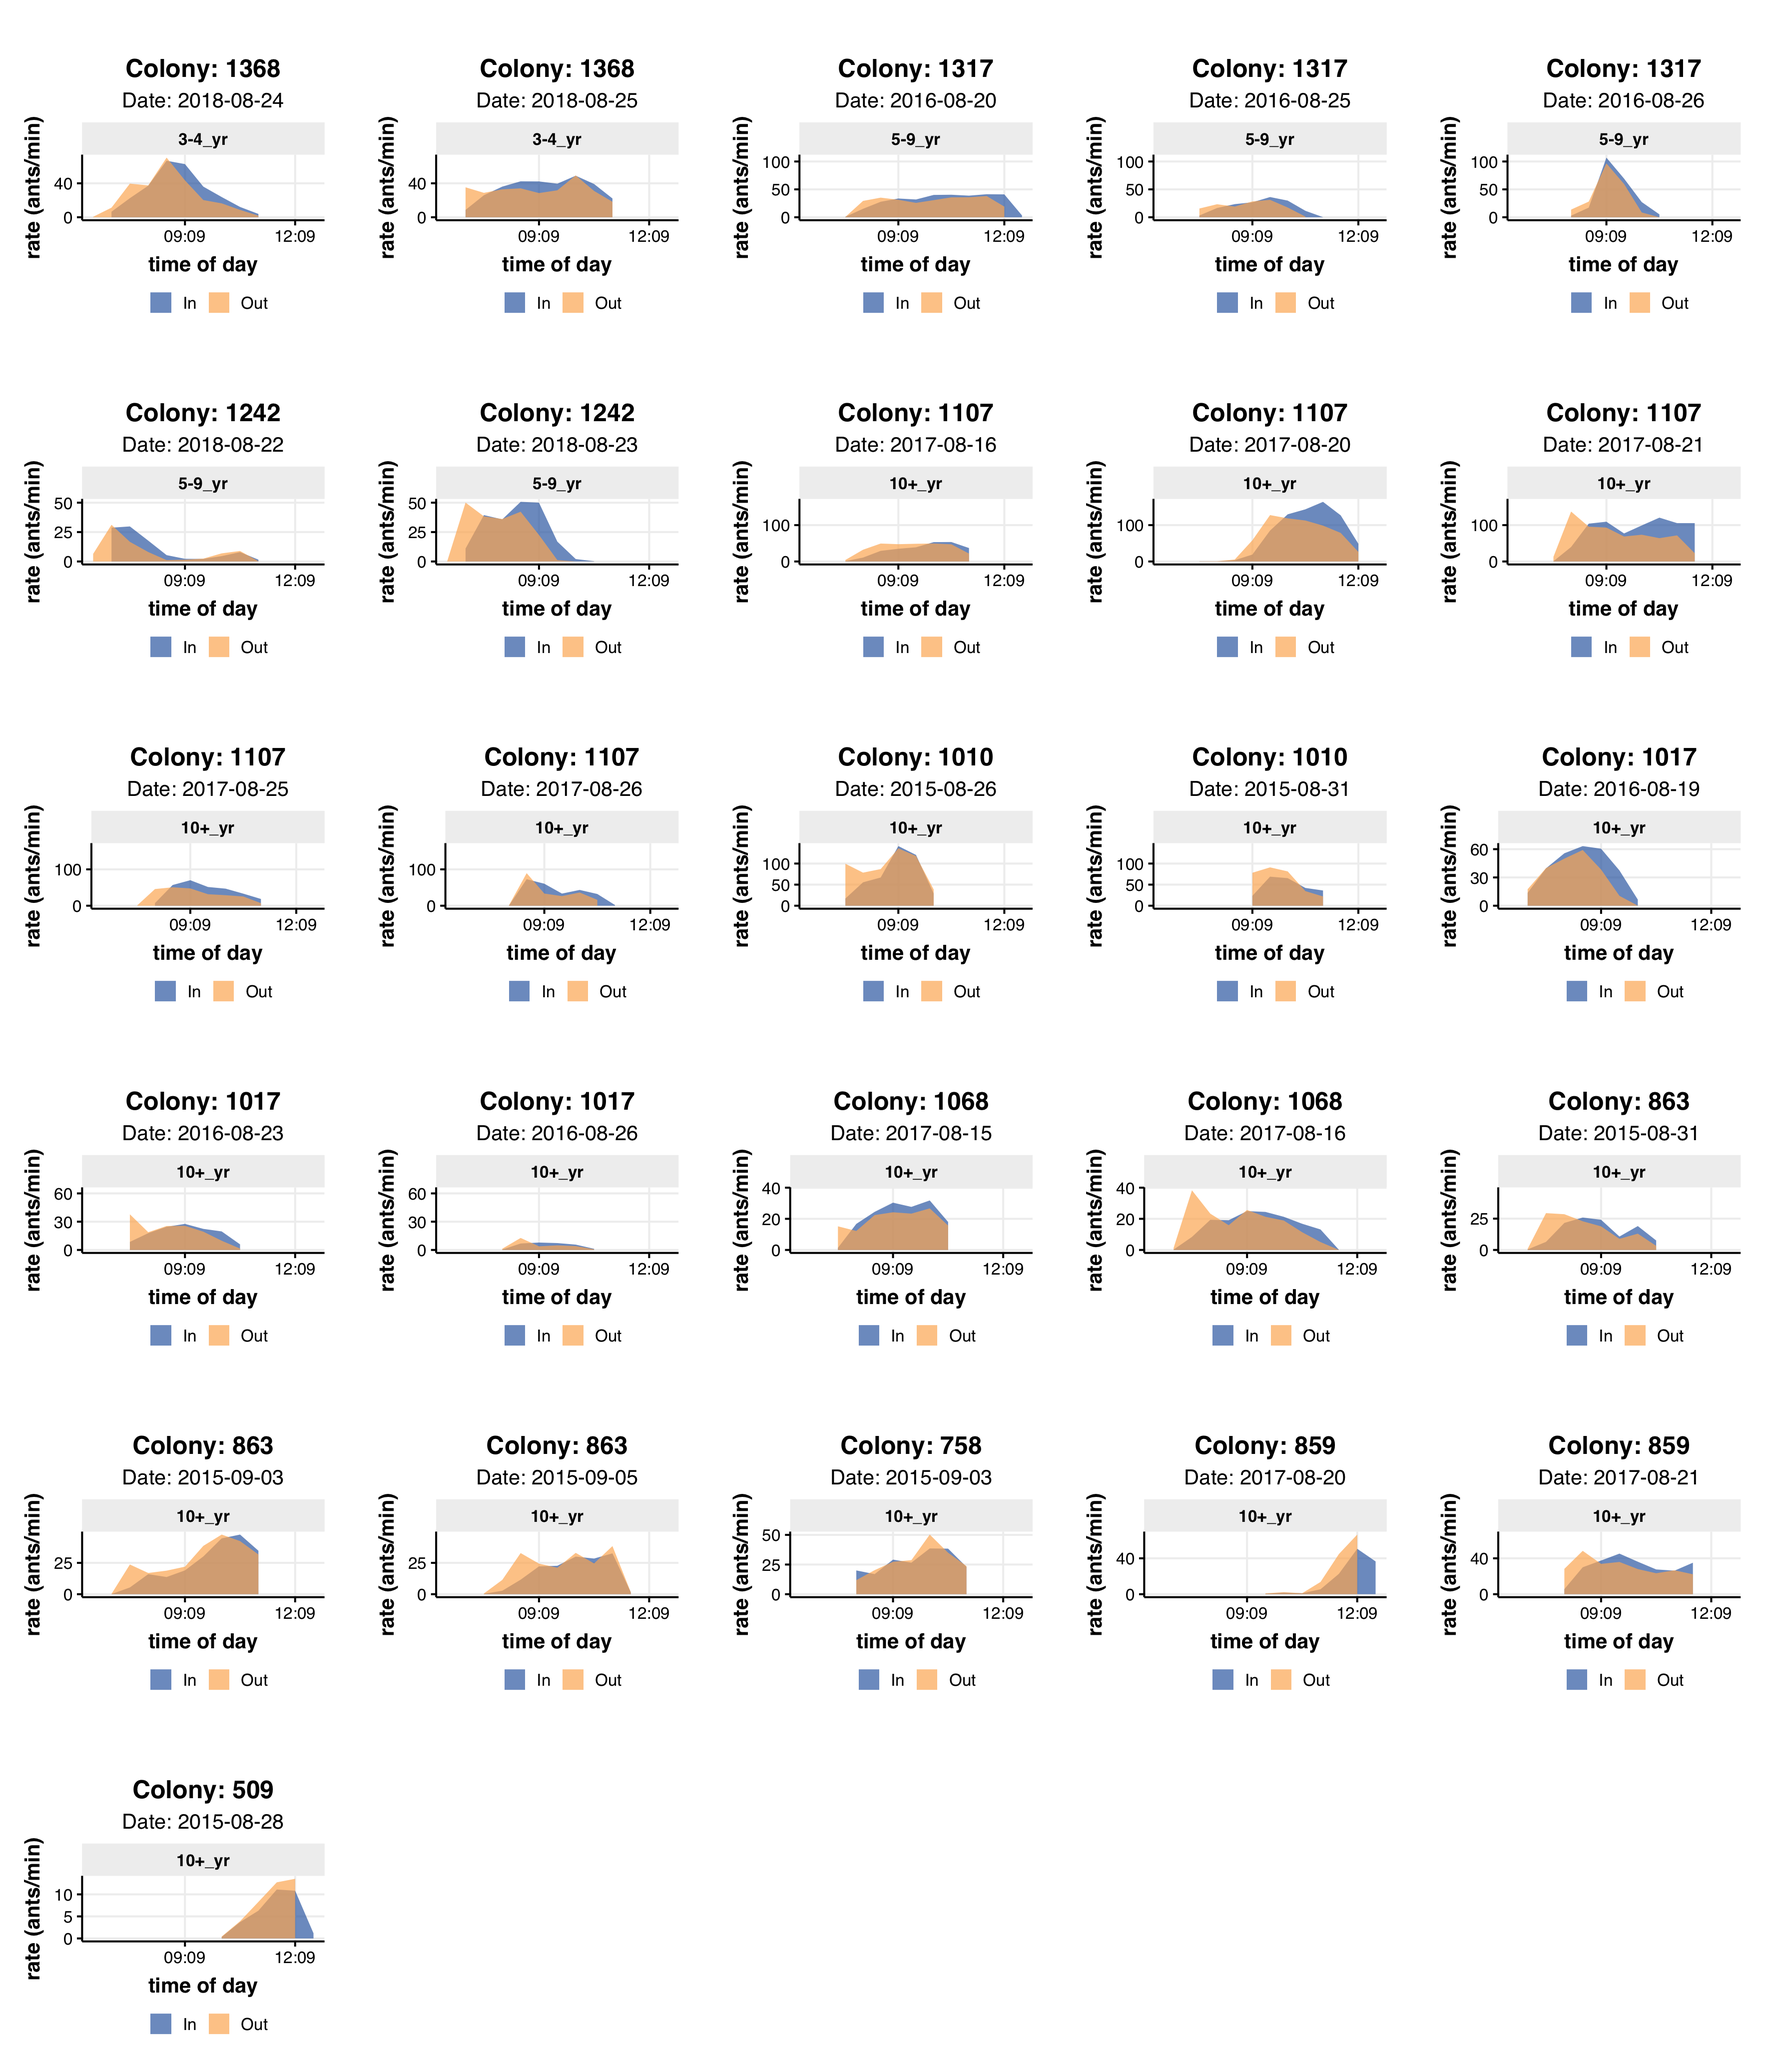
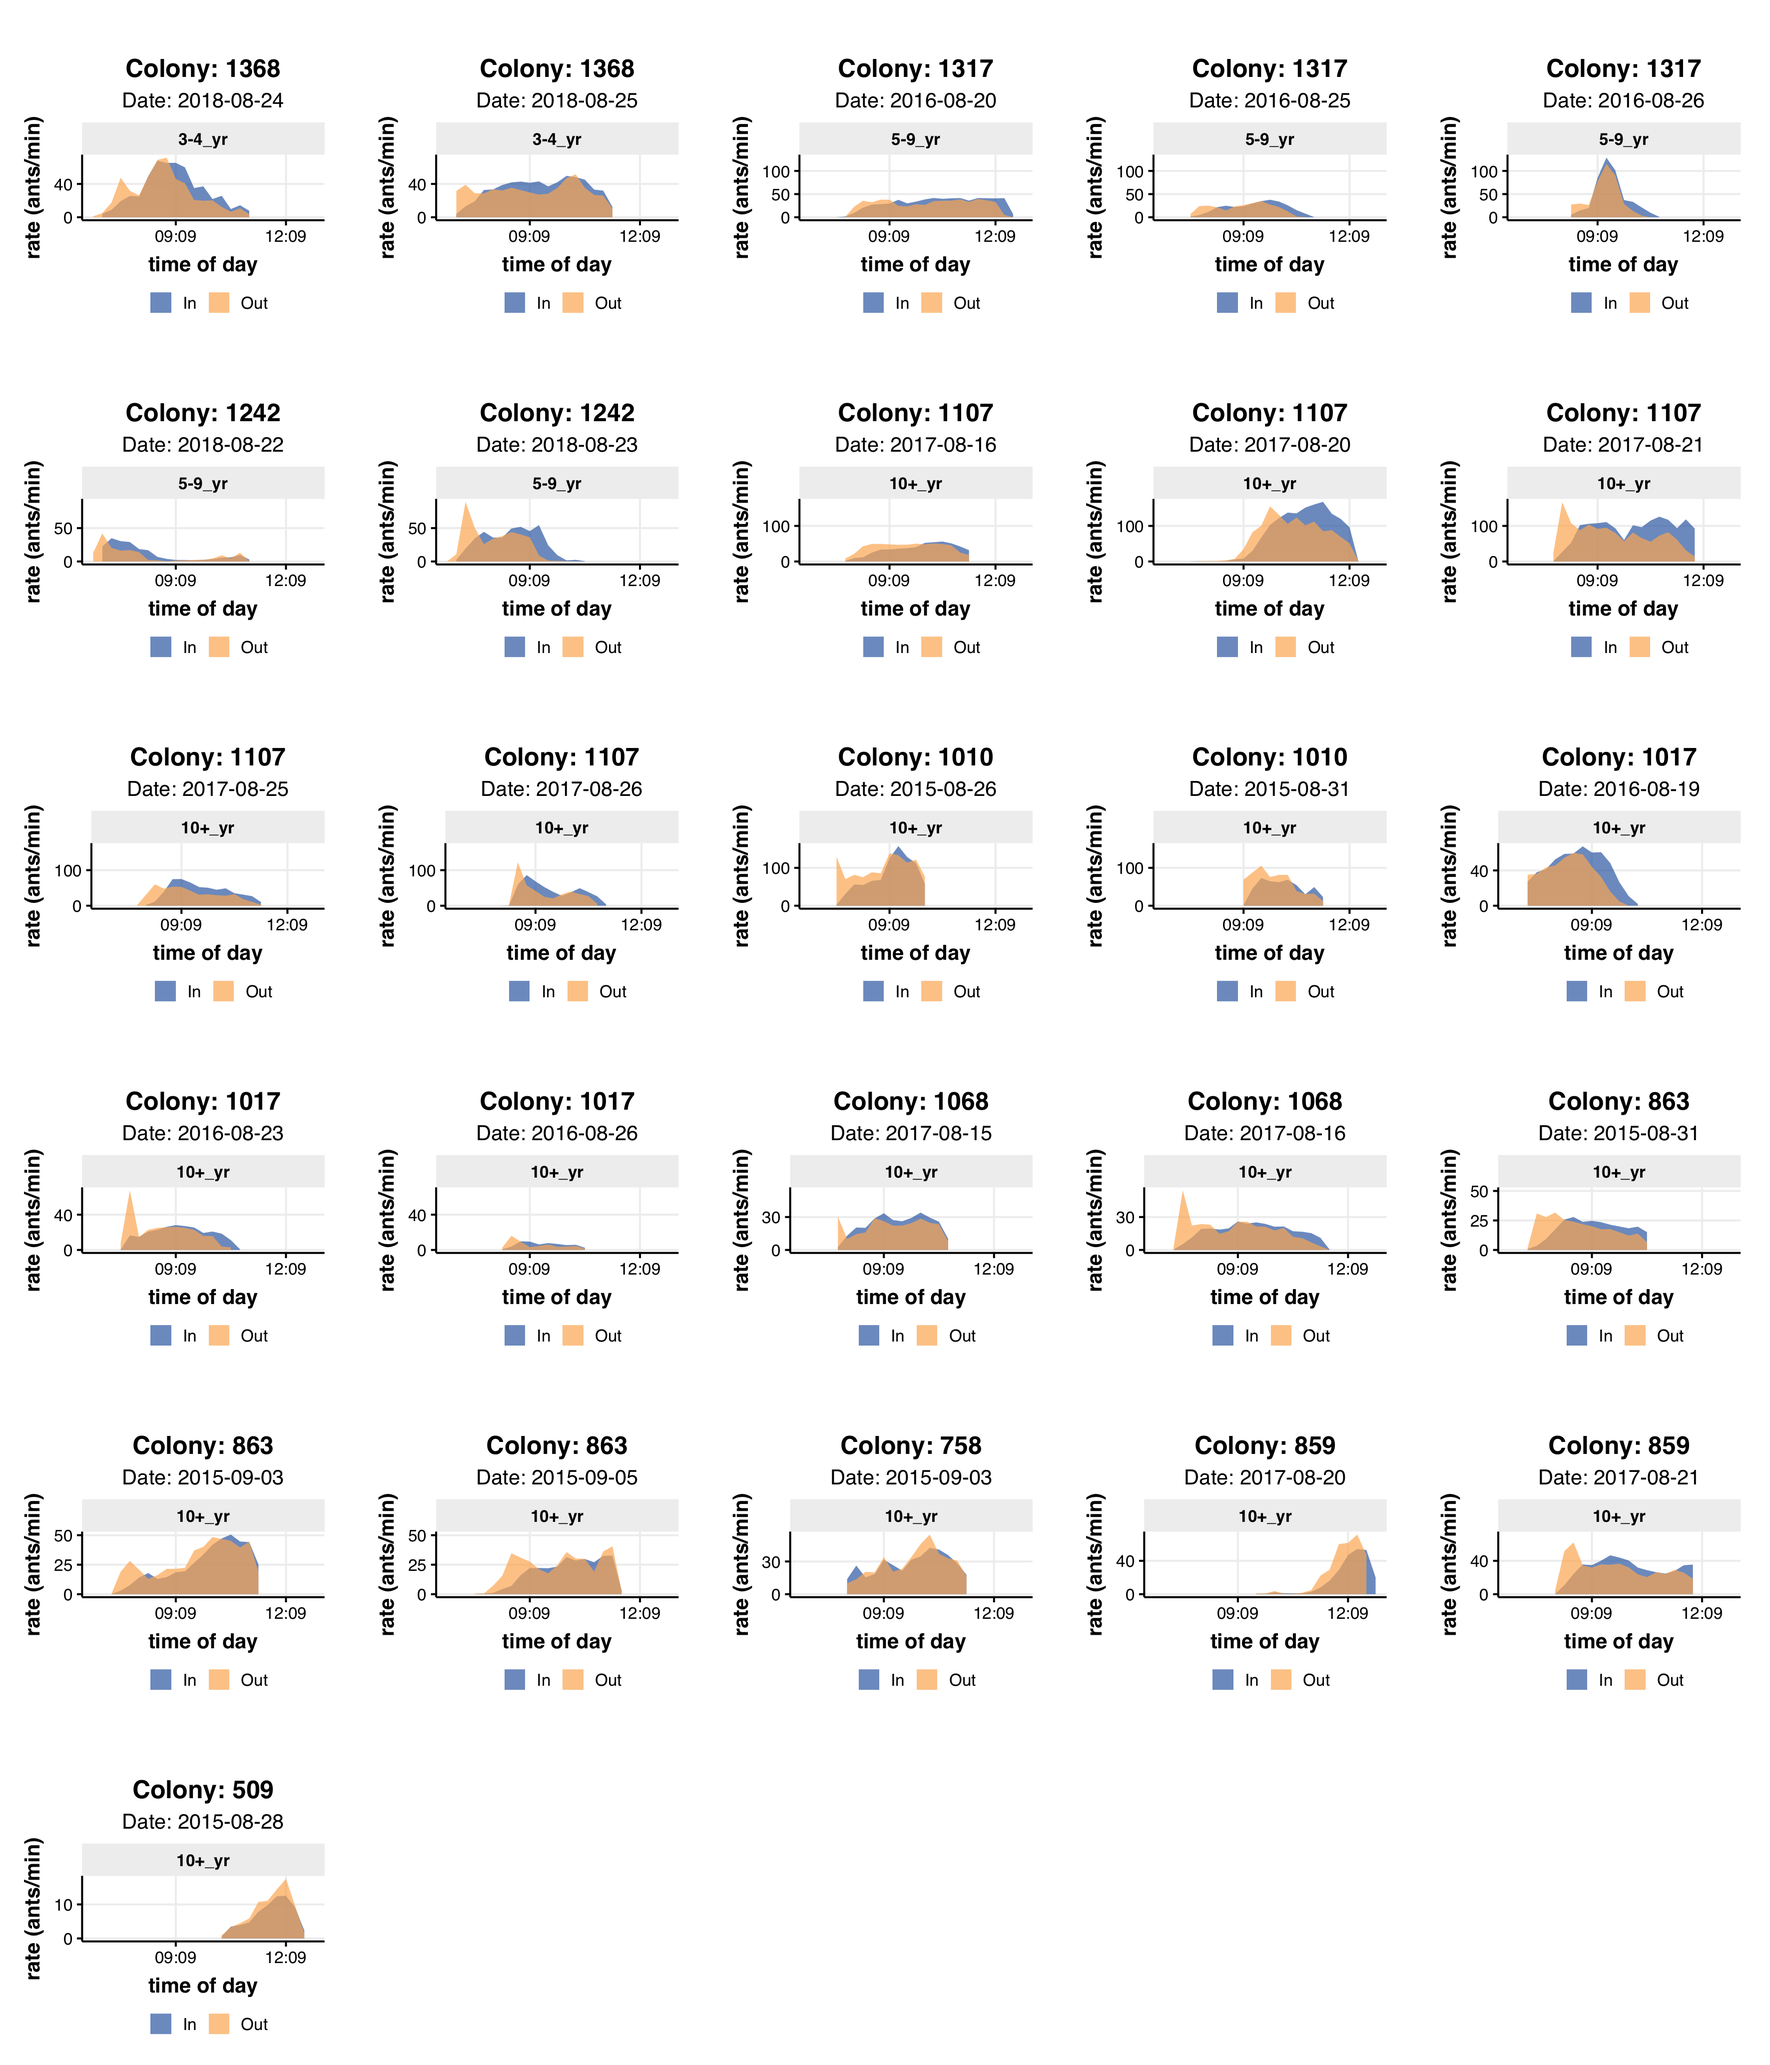
updates

diff --git a/docs/timecourse_foraging_Gordon.html b/docs/timecourse_foraging_Gordon.html
@@ -439,7 +439,7 @@ div.tocify {
 <h1 class="title toc-ignore">TC8: Timecourse foraging</h1>
 <h3 class="subtitle">Investigating colony variation in time-budgeting of daily foraging in harvester ants</h3>
 <h4 class="author">Biplabendu Das</h4>
-<h4 class="date">01 September, 2022</h4>
+<h4 class="date">11 September, 2022</h4>
 
 </div>
 
@@ -453,12 +453,12 @@ div.tocify {
 which.year &lt;- c(2015:2017)
 
 # specify bin width for calculating foraging rates (in minutes)
-bin.width &lt;- 30
+bin.width &lt;- 15
 
 # how many hours/day of observation do we need to include in the final analyses (in hours)
 atleast &lt;- 2</code></pre>
 <ul>
-<li>bin width to calculate rate of foraging (bin width = 30 mins)</li>
+<li>bin width to calculate rate of foraging (bin width = 15 mins)</li>
 <li>minimum hours/day of observations required for including in the anlayses (at least 2 hrs)</li>
 </ul>
 <hr />
@@ -936,7 +936,7 @@ Density plots of number of out/in-going foragers
 <div id="obtain-inout-foraging-rates" class="section level2">
 <h2>5. Obtain in/out foraging rates</h2>
 <blockquote>
-<p>Making 30 minute bins for calculating rate of in/out foraging</p>
+<p>Making 15 minute bins for calculating rate of in/out foraging</p>
 </blockquote>
 <pre class="r"><code>b.dat &lt;-
   dat %&gt;% 
@@ -1346,7 +1346,7 @@ I/O plots as a function of time
 
 # convert time to circular variables
 linear.time &lt;- mod.dat %&gt;% pull(t.bin) %&gt;% unique() %&gt;% sort() %&gt;% as.character()
-linear.time2 &lt;- seq(6.5, 12.5, by=0.5)
+linear.time2 &lt;- seq(6.5, 12.5, by=0.25)
 time.dat &lt;- data.frame(t.bin = linear.time,
                        lin_time = linear.time2)
 time.dat &lt;- cbind(time.dat, limorhyde::limorhyde(time.dat$lin_time, &quot;time_&quot;))
@@ -1370,9 +1370,11 @@ anova(mod.full, mod.red.1, test=&quot;Chisq&quot;)</code></pre>
 ## mod.red.1:     day)
 ## mod.full: r_tot ~ age_class + day + (time_cos + time_sin) + (1 | colony_ID) + 
 ## mod.full:     (1 | day)
-##           Df    AIC    BIC  logLik deviance  Chisq Chi Df Pr(&gt;Chisq)
-## mod.red.1 25 2156.2 2239.1 -1053.1   2106.2                         
-## mod.full  26 2155.6 2241.9 -1051.8   2103.6 2.5412      1     0.1109</code></pre>
+##           Df    AIC    BIC  logLik deviance  Chisq Chi Df Pr(&gt;Chisq)  
+## mod.red.1 25 3922.9 4021.2 -1936.5   3872.9                           
+## mod.full  26 3921.6 4023.9 -1934.8   3869.6 3.2947      1     0.0695 .
+## ---
+## Signif. codes:  0 &#39;***&#39; 0.001 &#39;**&#39; 0.01 &#39;*&#39; 0.05 &#39;.&#39; 0.1 &#39; &#39; 1</code></pre>
 <p>Ans: The (total) foraging of a colony doesn’t seem to significantly affected by age class (1-2 v. 3-4 v. &gt;=5 year old colonies).</p>
 <blockquote>
 <p>Q2. Does the rate of foraging depend on the time of day?</p>
@@ -1386,8 +1388,8 @@ anova(mod.full, mod.red.2, test=&quot;Chisq&quot;)</code></pre>
 ## mod.full: r_tot ~ age_class + day + (time_cos + time_sin) + (1 | colony_ID) + 
 ## mod.full:     (1 | day)
 ##           Df    AIC    BIC  logLik deviance  Chisq Chi Df Pr(&gt;Chisq)    
-## mod.red.2 24 2166.8 2246.5 -1059.4   2118.8                             
-## mod.full  26 2155.6 2241.9 -1051.8   2103.6 15.213      2  0.0004973 ***
+## mod.red.2 24 3938.1 4032.4 -1945.0   3890.1                             
+## mod.full  26 3921.6 4023.9 -1934.8   3869.6 20.428      2  3.665e-05 ***
 ## ---
 ## Signif. codes:  0 &#39;***&#39; 0.001 &#39;**&#39; 0.01 &#39;*&#39; 0.05 &#39;.&#39; 0.1 &#39; &#39; 1</code></pre>
 <p>Ans: Yes, the total foraging of harvester ant colonies significantly fluctuates with time.</p>
@@ -1403,9 +1405,9 @@ anova(mod.full, mod.red.3, test=&quot;Chisq&quot;)</code></pre>
 ## mod.red.3:     (1 | day)
 ## mod.full: r_tot ~ age_class + day + (time_cos + time_sin) + (1 | colony_ID) + 
 ## mod.full:     (1 | day)
-##           Df    AIC    BIC  logLik deviance  Chisq Chi Df Pr(&gt;Chisq)   
-## mod.red.3  8 2161.7 2188.2 -1072.8   2145.7                            
-## mod.full  26 2155.6 2241.9 -1051.8   2103.6 42.033     18   0.001094 **
+##           Df    AIC    BIC  logLik deviance  Chisq Chi Df Pr(&gt;Chisq)    
+## mod.red.3  8 3942.7 3974.1 -1963.3   3926.7                             
+## mod.full  26 3921.6 4023.9 -1934.8   3869.6 57.015     18  6.156e-06 ***
 ## ---
 ## Signif. codes:  0 &#39;***&#39; 0.001 &#39;**&#39; 0.01 &#39;*&#39; 0.05 &#39;.&#39; 0.1 &#39; &#39; 1</code></pre>
 <p>Ans: As was expected, yes, the daily foraging of a colony does show significant day-to-day fluctuations.</p>
@@ -1421,9 +1423,9 @@ anova(mod.full.2, mod.full, test=&quot;Chisq&quot;)</code></pre>
 ## mod.full:     (1 | day)
 ## mod.full.2: r_tot ~ age_class * (time_cos + time_sin) + day + (1 | colony_ID) + 
 ## mod.full.2:     (1 | day)
-##            Df    AIC    BIC  logLik deviance  Chisq Chi Df Pr(&gt;Chisq)   
-## mod.full   26 2155.6 2241.9 -1051.8   2103.6                            
-## mod.full.2 30 2149.7 2249.2 -1044.8   2089.7 13.983      4    0.00735 **
+##            Df    AIC    BIC  logLik deviance  Chisq Chi Df Pr(&gt;Chisq)    
+## mod.full   26 3921.6 4023.9 -1934.8   3869.6                             
+## mod.full.2 30 3904.9 4022.8 -1922.4   3844.9 24.777      4  5.579e-05 ***
 ## ---
 ## Signif. codes:  0 &#39;***&#39; 0.001 &#39;**&#39; 0.01 &#39;*&#39; 0.05 &#39;.&#39; 0.1 &#39; &#39; 1</code></pre>
 <p>Ans: It is possible!! This result is most interesting because it rises the possibility that the daily changes in the foraging rate of colonies might have characteristic differences between age classes. Or in other words, <strong>the time-dependent foraging activity of ant colonies change with its age</strong>.</p>
@@ -1445,14 +1447,13 @@ anova(mod.full.2, mod.full, test=&quot;Chisq&quot;)</code></pre>
 # number of rows = number of unique colony-days
 name.rows &lt;-
   mod.dat %&gt;% 
-  
   group_by(colony_ID, day, age_class) %&gt;% 
   summarize(num_of_timepoints = n()) %&gt;% 
-  ungroup() %&gt;% 
-  
+  ungroup() %&gt;%
+  group_by(colony_ID) %&gt;% 
   mutate(which_day = row_number()) %&gt;% 
   arrange(age_class) %&gt;% 
-  mutate(colony_day = paste0(age_class,&quot;_D&quot;,which_day)) %&gt;% pull(colony_day)
+  mutate(colony_day = paste0(age_class,&quot;| &quot;, colony_ID, &quot;_D&quot;,which_day)) %&gt;% pull(colony_day)
 # number of columns = number of time points per day
 name.cols &lt;- paste0(&quot;T&quot;,time.dat$t.bin)
 
@@ -1489,7 +1490,7 @@ par(mar=c(6.1, #bottom
 cluster.dat %&gt;%
   # imputeTS::na_interpolation() %&gt;% 
   plot(.,
-       col=viridis::viridis(3),
+       col=viridis::viridis(4),
        spacing.key=1.5,
          fmt.key=&quot;%.0f&quot;,
          xlab = &quot;&quot;,
@@ -1507,50 +1508,23 @@ cluster.dat %&gt;%
 <blockquote>
 <p>Please note, the following section is not meant to be accurate but provides an example of the type of analyses one could conduct.</p>
 </blockquote>
-<pre class="r"><code># load necessary libraries
-pacman::p_load(dtwclust, imputeTS)
-# ?tsclust
-# clustering tutorial: https://rpubs.com/esobolewska/dtw-time-series
-# NA imputation tutorial: https://stackoverflow.com/questions/27368195/r-ts-with-missing-values
+<pre class="r"><code># # load necessary libraries
+# pacman::p_load(dtwclust, imputeTS)
+# # ?tsclust
+# # clustering tutorial: https://rpubs.com/esobolewska/dtw-time-series
+# # NA imputation tutorial: https://stackoverflow.com/questions/27368195/r-ts-with-missing-values
+# 
+# clust.hier &lt;- tsclust(cluster.dat %&gt;% na_interpolation(), 
+#                      type=&quot;h&quot;,
+#                      k=4L, distance=&quot;dtw&quot;)
+# clust.pam &lt;- tsclust(cluster.dat %&gt;% na_interpolation(),
+#                      type=&quot;partitional&quot;,
+#                      k=4L, distance=&quot;dtw&quot;, centroid=&quot;pam&quot;)
+# # plot(clust.pam, type=&quot;sc&quot;)
+# plot(clust.pam, type=&quot;centroids&quot;)
+# t(cbind(cluster.dat[,0], cluster = clust.hier@cluster)) %&gt;% t()
 
-clust.hier &lt;- tsclust(cluster.dat %&gt;% na_interpolation(), 
-                     type=&quot;h&quot;,
-                     k=4L, distance=&quot;dtw&quot;)
-clust.pam &lt;- tsclust(cluster.dat %&gt;% na_interpolation(),
-                     type=&quot;partitional&quot;,
-                     k=4L, distance=&quot;dtw&quot;, centroid=&quot;pam&quot;)
-# plot(clust.pam, type=&quot;sc&quot;)
-plot(clust.pam, type=&quot;centroids&quot;)</code></pre>
-<p><img src="timecourse_foraging_Gordon_files/figure-html/analyses_v6-1.png" width="672" /></p>
-<pre class="r"><code>t(cbind(cluster.dat[,0], cluster = clust.hier@cluster)) %&gt;% t()</code></pre>
-<pre><code>##            cluster
-## 3-4_yr_D18       1
-## 3-4_yr_D19       1
-## 5-9_yr_D13       1
-## 5-9_yr_D14       1
-## 5-9_yr_D15       2
-## 5-9_yr_D16       2
-## 5-9_yr_D17       3
-## 10+_yr_D1        3
-## 10+_yr_D2        3
-## 10+_yr_D3        3
-## 10+_yr_D4        3
-## 10+_yr_D5        3
-## 10+_yr_D6        3
-## 10+_yr_D7        3
-## 10+_yr_D8        3
-## 10+_yr_D9        3
-## 10+_yr_D10       3
-## 10+_yr_D11       3
-## 10+_yr_D12       3
-## 10+_yr_D20       3
-## 10+_yr_D21       4
-## 10+_yr_D22       4
-## 10+_yr_D23       4
-## 10+_yr_D24       4
-## 10+_yr_D25       3
-## 10+_yr_D26       3</code></pre>
-<pre class="r"><code># writeLines(&quot;comparing clustering stats&quot;)
+# writeLines(&quot;comparing clustering stats&quot;)
 # writeLines(&quot;type = partitional&quot;)
 # cvi(clust.pam)
 # writeLines(&quot;type = h | hierarchichal&quot;)
